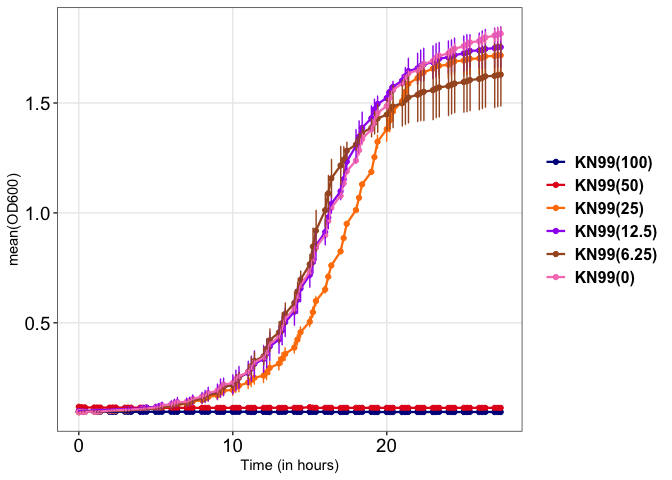
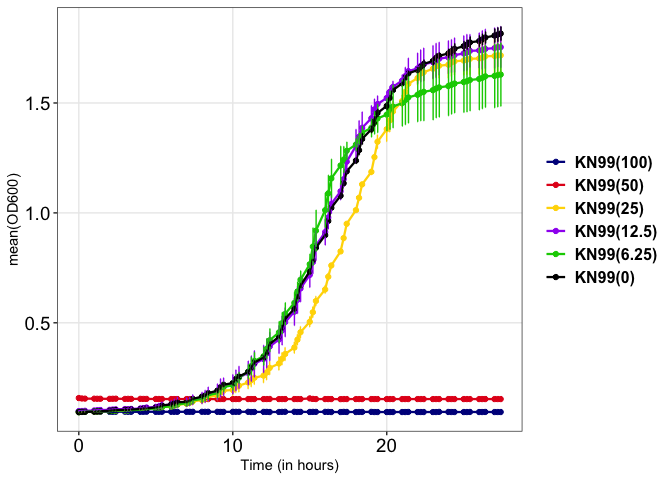
minor changes

diff --git a/Paper_BS181.md b/Paper_BS181.md
@@ -42,6 +42,8 @@ current_plot <- current_plot %>%
 
 colr=c( "blue4", "#E41A1C", "#FF7F00","purple","#A65628",  "#F781BF")
 
+colr <- c("blue4", "#E41A1C", "gold","purple","green3",  "black")
+
 growkar::plot_growth_curve(dat_growth_curve = current_plot, average_replicates = TRUE, end_timepoint = 28, custom_colors = colr)
 ```
 
@@ -94,10 +96,11 @@ dosecurve_dt <-  dose_curve_data %>%
   dplyr::mutate(Time=as.double(Time))
               
 current_plot <- dosecurve_dt %>% 
-  dplyr::select(tidyr::matches("^H99|^Time")) %>%
+  dplyr::select(tidyr::matches("^Cgatti|^Time")) %>%
   dplyr::select(-dplyr::matches("\\((3.125|1.56)\\)"))
 
-colr=c( "blue4", "#E41A1C", "#FF7F00","purple","#A65628",  "#F781BF")
+colr <- c("blue4", "#E41A1C", "gold","purple","green3",  "black")
+
 
 growkar::plot_growth_curve(dat_growth_curve = current_plot, average_replicates = TRUE, end_timepoint = 28,  custom_colors = colr)
 ```
@@ -111,7 +114,7 @@ current_plot <- dosecurve_dt %>%
   dplyr::select(tidyr::matches("^Sc|^Time")) %>%
   dplyr::select(-dplyr::matches("\\((3.125|1.56|6.25|12.5)\\)"))
 
-colr=c( "blue4", "#E41A1C", "#FF7F00","#F781BF")
+colr=c( "blue4", "#E41A1C", "gold","black")
 
 growkar::plot_growth_curve(dat_growth_curve = current_plot, average_replicates = TRUE, end_timepoint = 28,  custom_colors = colr)
 ```
